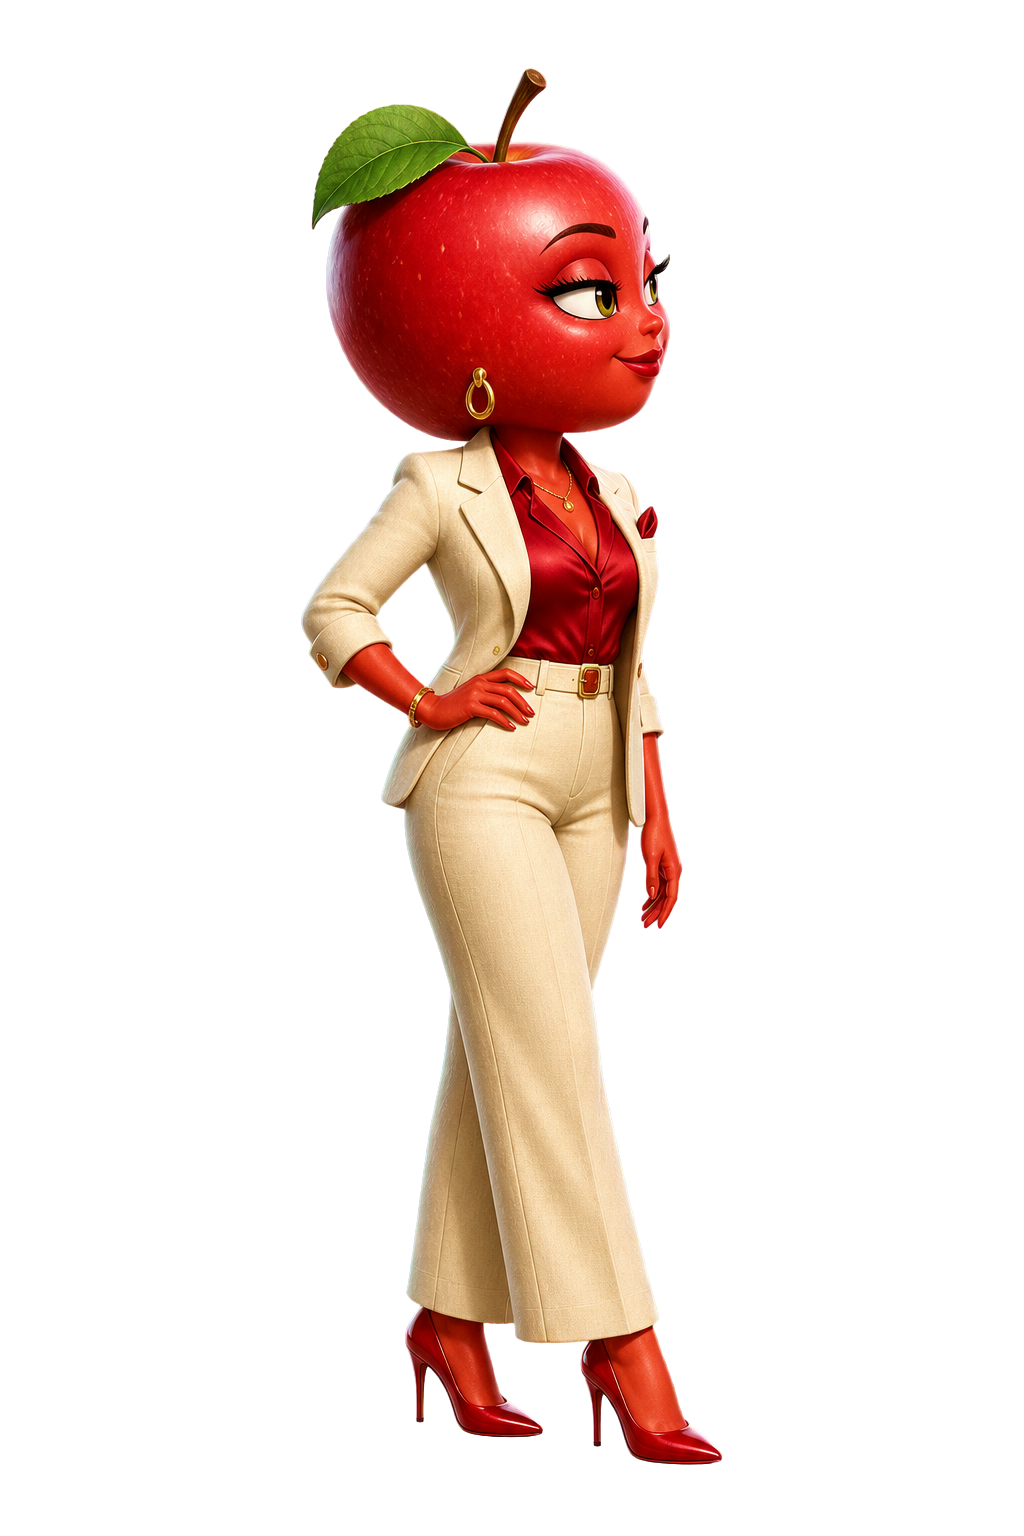
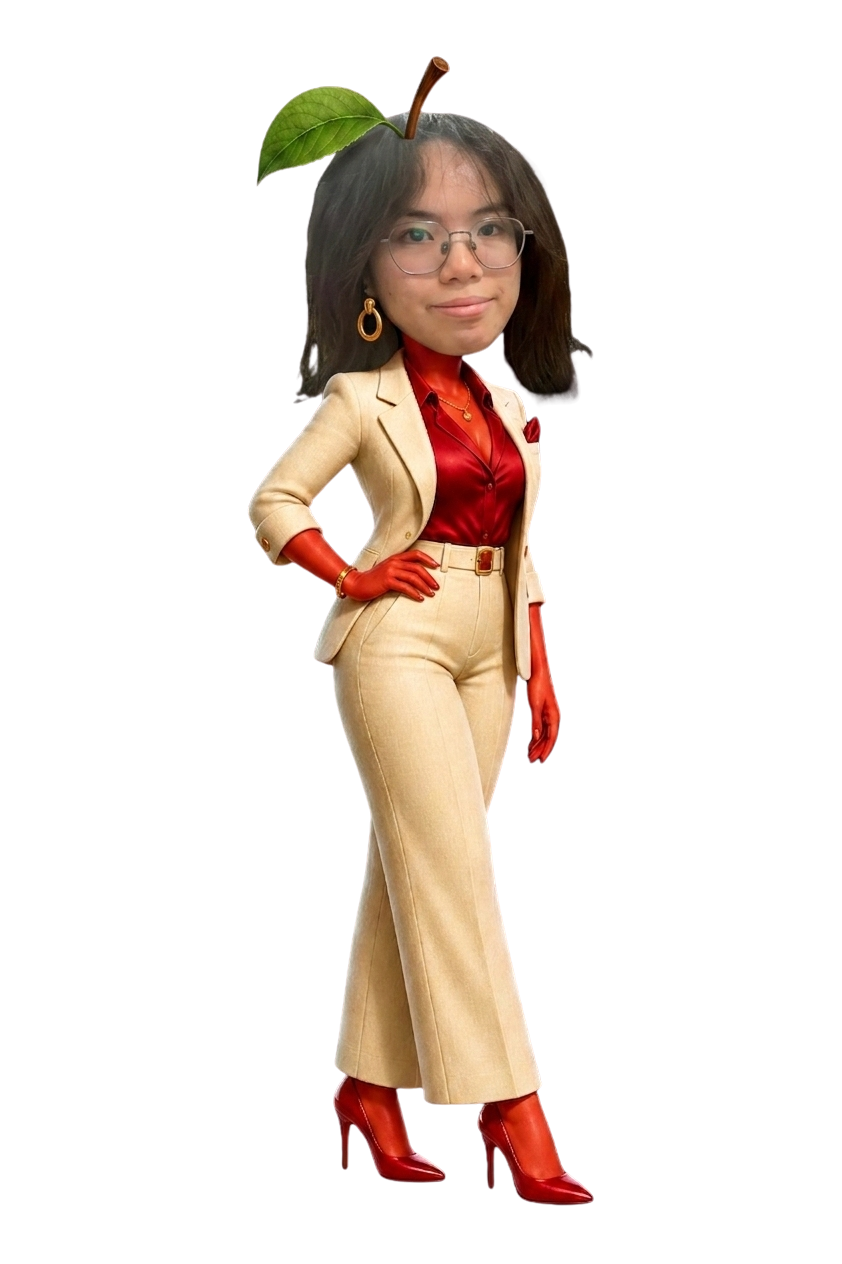
update user flow

diff --git a/app/chat/page.tsx b/app/chat/page.tsx
@@ -227,7 +227,7 @@ function SushiBar({ chatOpen }: { chatOpen: boolean }) {
         left: 170,
         top: -8,
         zIndex: 60,
-        opacity: chatOpen ? 0.6 : 0,
+        opacity: chatOpen ? 0.92 : 0,
         transform: chatOpen ? "translate(-50%, 0) scale(1)" : "translate(-50%, 8px) scale(0.92)",
         transition: "opacity 180ms ease",
         pointerEvents: "none",
